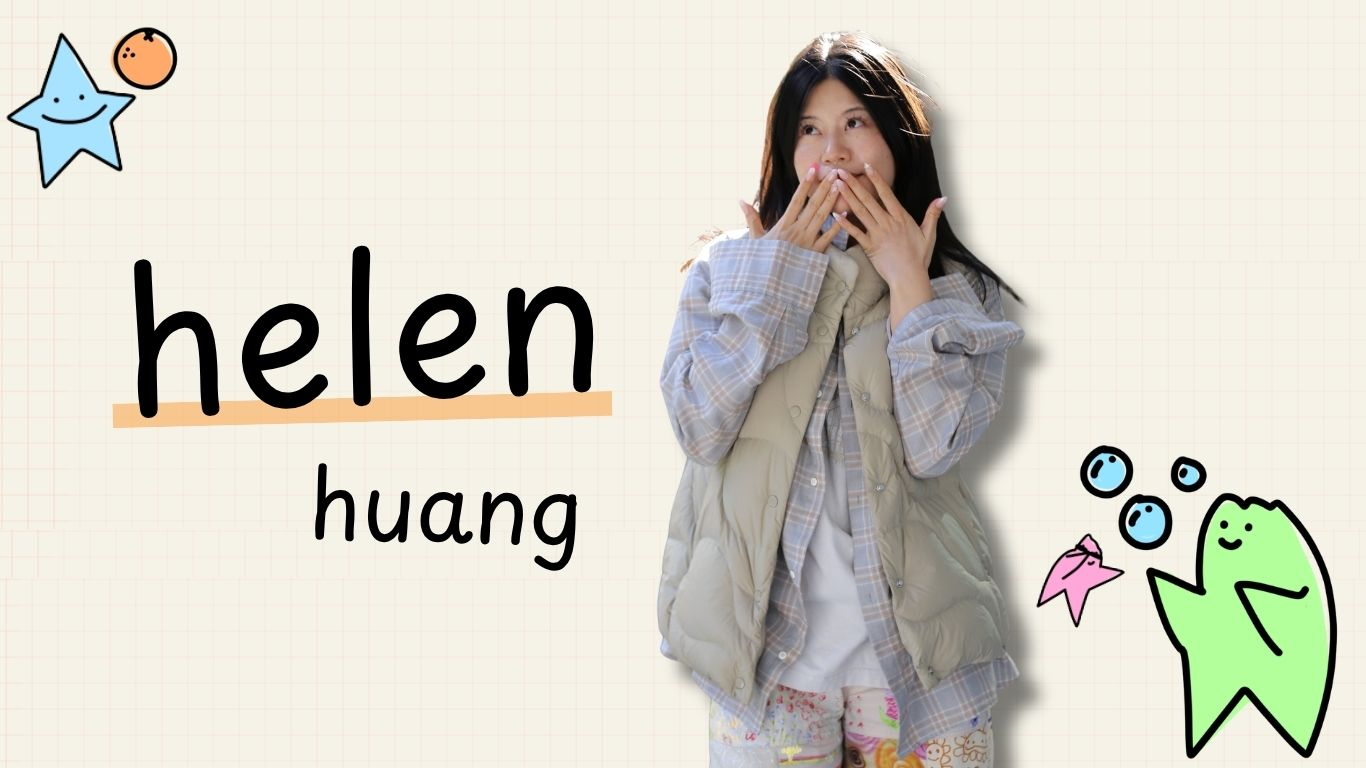
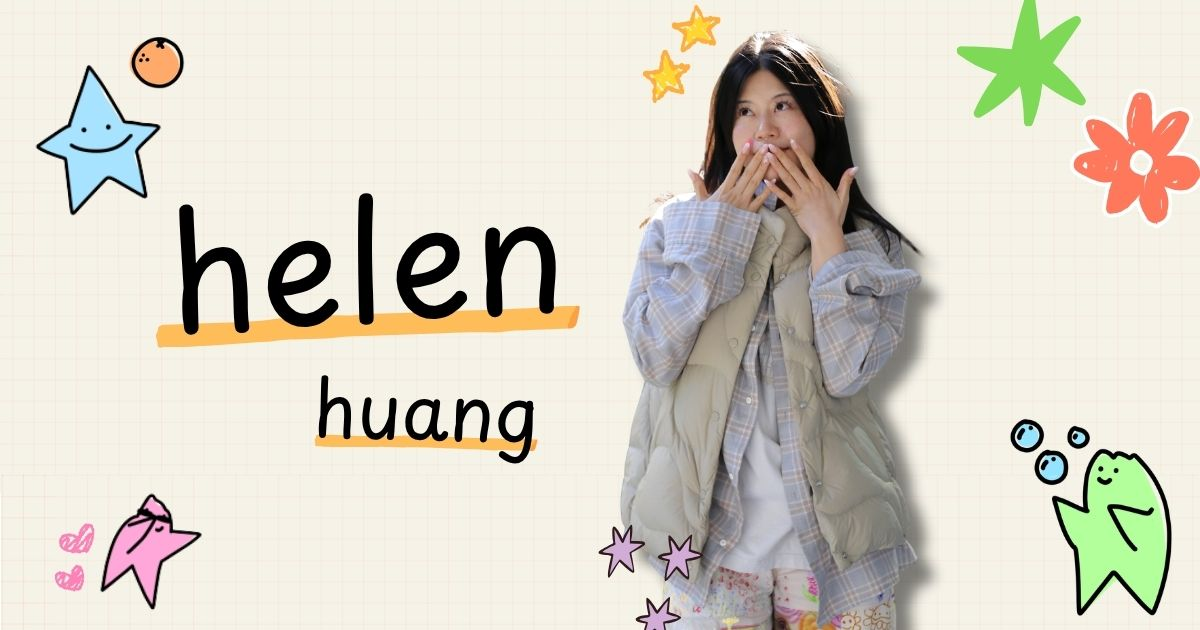
Address PR review: 1200x630 preview image and legacy about redirects
- Replace preview-2026.jpg with the spec-compliant 1200x630 version
  and update og:image:width/height accordingly
- Add Navigate redirects for /about_personal and /about_work → /about
  so existing bookmarks (LinkedIn bio, Google index, etc.) keep working

diff --git a/index.html b/index.html
@@ -34,8 +34,8 @@
     <meta property="og:url" content="https://helenhuang.io" />
     <meta property="og:image" content="https://raw.githubusercontent.com/herenhuang/melona-popsicle/main/images/preview-2026.jpg" />
     <meta property="og:image:type" content="image/jpeg">
-    <meta property="og:image:width" content="1366">
-    <meta property="og:image:height" content="768">
+    <meta property="og:image:width" content="1200">
+    <meta property="og:image:height" content="630">
 
     <!-- Twitter -->
     <meta name="twitter:card" content="summary_large_image" />

diff --git a/src/App.tsx b/src/App.tsx
@@ -100,6 +100,10 @@ function AppContent() {
           
           {/* Legacy /now/:noteId paths - redirect to new structure */}
           <Route path="/now/:noteId" element={<Navigate to="/:noteId" replace />} />
+
+          {/* Legacy about pages - redirect to merged /about */}
+          <Route path="/about_personal" element={<Navigate to="/about" replace />} />
+          <Route path="/about_work" element={<Navigate to="/about" replace />} />
           
           {/* New direct note paths */}
           <Route path="/:noteId" element={
